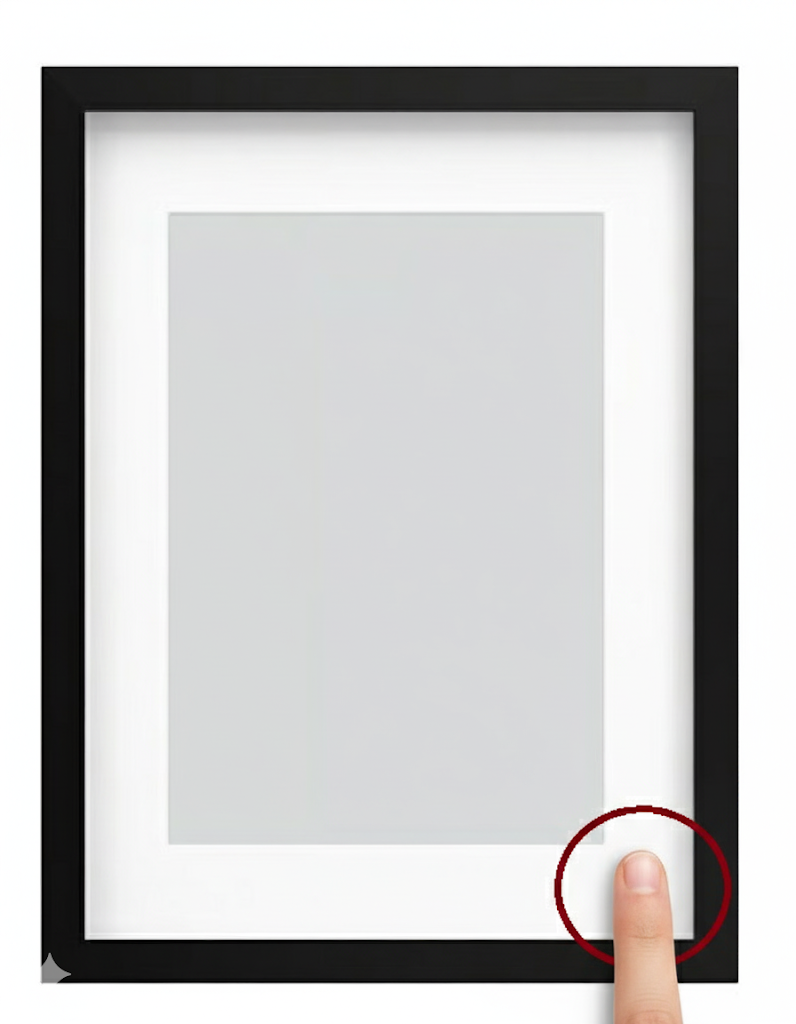
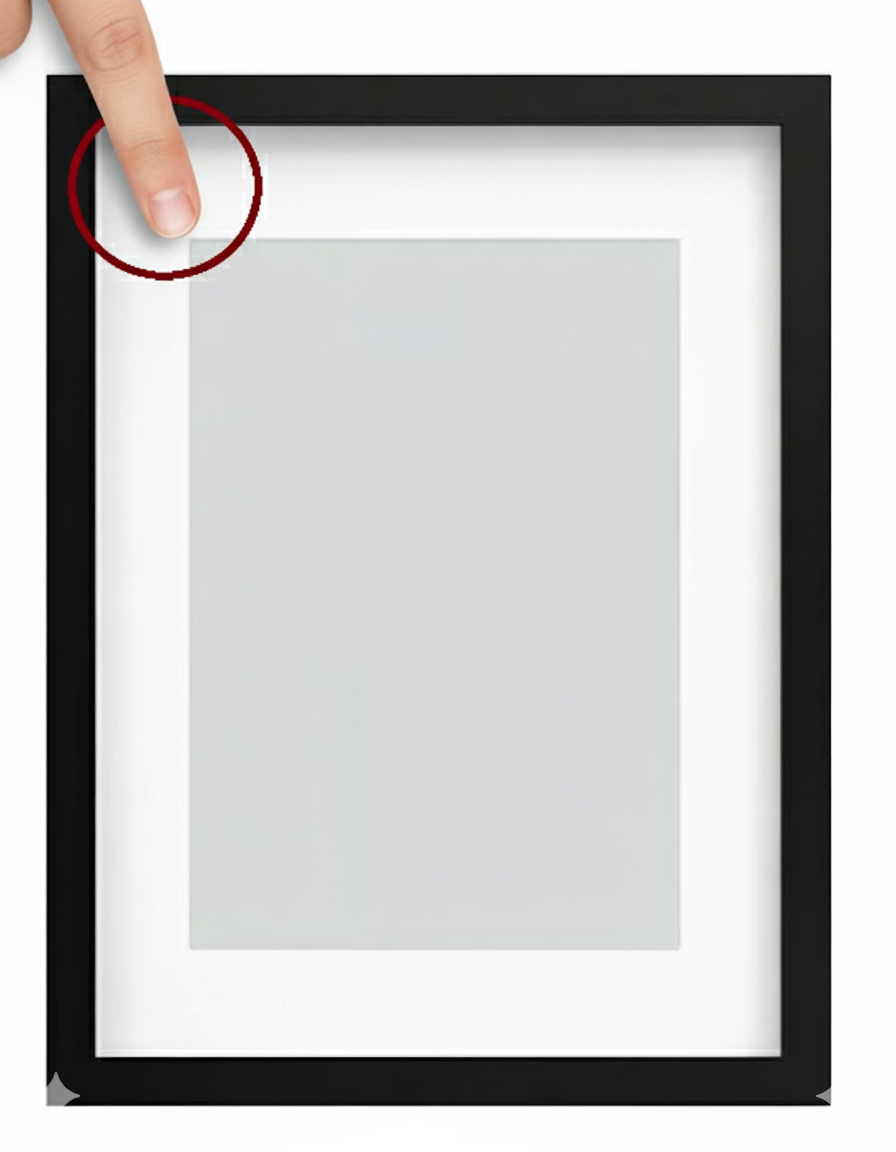
ImageAccordingtoFrame

Changed region(s): [[0.0, 0.0, 0.3015, 0.25], [0.6935, 0.7812, 0.9347, 1.0], [0.9045, 0.9375, 0.9347, 0.9688]]

diff --git a/lib/main.dart b/lib/main.dart
@@ -1919,26 +1919,34 @@ class _EPaperImageSenderState extends State<EPaperImageSender> {
     try {
       _updateStatus("Preparing image data...");
       
-      // Perform vertical flip (device correction) then horizontal flip to intentionally show a flipped image on the e-paper (net 180° rotation).
+      // If the user selected LANDSCAPE frame, rotate 180° before sending (per request).
+      // If PORTRAIT was selected, send as-is (no 180° rotation).
       final int w = IMAGE_WIDTH;
       final int h = IMAGE_HEIGHT;
       final Uint8List src = _processedBytes!; // raw codes length w*h
-      // Vertical flip
-      final Uint8List vFlipped = Uint8List(src.length);
-      for (int y = 0; y < h; y++) {
-        final int srcOffset = y * w;
-        final int dstOffset = (h - 1 - y) * w;
-        vFlipped.setRange(dstOffset, dstOffset + w, src, srcOffset);
-      }
-      // Horizontal flip on the vertically flipped buffer -> 180° rotation overall
-      final Uint8List vhFlipped = Uint8List(src.length);
-      for (int y = 0; y < h; y++) {
-        final int row = y * w;
-        for (int x = 0; x < w; x++) {
-          vhFlipped[row + (w - 1 - x)] = vFlipped[row + x];
+      Uint8List toSend;
+      if (!_verticalFrame) {
+        // Landscape selected -> rotate 180° (vertical + horizontal flip)
+        final Uint8List vFlipped = Uint8List(src.length);
+        for (int y = 0; y < h; y++) {
+          final int srcOffset = y * w;
+          final int dstOffset = (h - 1 - y) * w;
+          vFlipped.setRange(dstOffset, dstOffset + w, src, srcOffset);
         }
+        final Uint8List vhFlipped = Uint8List(src.length);
+        for (int y = 0; y < h; y++) {
+          final int row = y * w;
+          for (int x = 0; x < w; x++) {
+            vhFlipped[row + (w - 1 - x)] = vFlipped[row + x];
+          }
+        }
+        toSend = vhFlipped;
+        _updateStatus("Applied 180° rotation for landscape selection");
+      } else {
+        // Portrait selected -> no rotation
+        toSend = src;
       }
-      Uint8List packedData = _packPixels(vhFlipped);
+      Uint8List packedData = _packPixels(toSend);
       _updateStatus("Packed data size: ${packedData.length} bytes");
       
       // First send the total size as a 4-byte value
